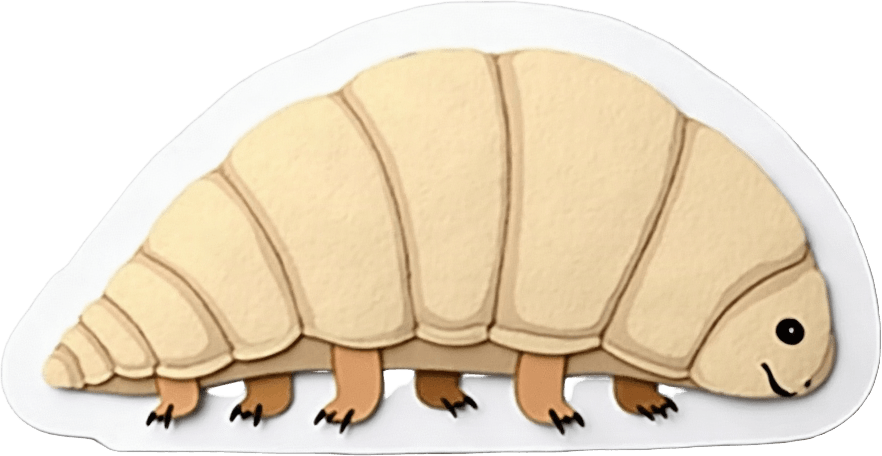
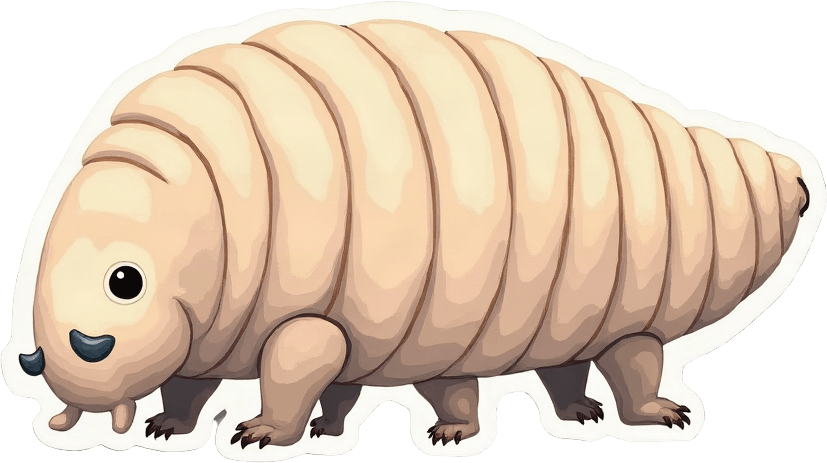
Fix the big-number counter finishing off screen and overflowing; redraw two pilot pictures
- The counter now runs 0.8 s and starts at least 2 s before the cut, so
  the final value and unit are always on screen (QA read '0.3 million').
- Long numbers shrink to fit the card (1,000,000,000 overflowed).
- The flattened spinal disc is the plump disc squashed in code, so the
  before/after pair matches exactly; tardigrade redrawn.

Claude-Session: https://claude.ai/code/session_015SvKS5UWRraLYtJ9Qx1qJ9

diff --git a/src/video/scenes/templates.tsx b/src/video/scenes/templates.tsx
@@ -233,6 +233,12 @@ const Title: React.FC<SceneProps> = ({ dur, props = {} }) => {
   );
 };
 
+/** How long the big-number counter runs. The spec builder starts it early enough to finish on screen. */
+export const COUNT_S = 0.8;
+
+/** Font size that keeps a number on one line inside the card (13 characters fit at 96 px). */
+export const numberSize = (text: string) => (text.length <= 5 ? 160 : text.length <= 9 ? 130 : text.length <= 13 ? 96 : 76);
+
 /** big-number: a counter that runs up to a value on a cue word, with a unit card and an optional icon. */
 const BigNumber: React.FC<SceneProps> = ({ dur, props = {} }) => {
   const t = useTheme();
@@ -243,7 +249,8 @@ const BigNumber: React.FC<SceneProps> = ({ dur, props = {} }) => {
   const value = num(props.value);
   const from = num(props.from);
   const decimals = num(props.decimals);
-  const p = interpolate(held, [start, start + Math.round(fps * 1.1)], [0, 1], {
+  const countFrames = Math.round(fps * COUNT_S);
+  const p = interpolate(held, [start, start + countFrames], [0, 1], {
     extrapolateLeft: "clamp",
     extrapolateRight: "clamp",
     easing: Easing.out(Easing.cubic),
@@ -259,12 +266,12 @@ const BigNumber: React.FC<SceneProps> = ({ dur, props = {} }) => {
         </Piece>
       )}
       <Piece seed="num-value" x={540} y={icon ? 880 : 720} at={Math.max(0, start - 4)}>
-        <Card size={text.length > 9 ? 120 : 160} bg={t.colors.accent}>
+        <Card size={numberSize(text)} maxWidth={980} bg={t.colors.accent}>
           {text}
         </Card>
       </Piece>
       {str(props.unit) && (
-        <Piece seed="num-unit" x={540} y={icon ? 1090 : 960} at={start + Math.round(fps * 1.1)} from="up" rotate={-1}>
+        <Piece seed="num-unit" x={540} y={icon ? 1090 : 960} at={start + countFrames} from="up" rotate={-1}>
           <Card size={60}>{str(props.unit)}</Card>
         </Piece>
       )}

diff --git a/test/video.test.ts b/test/video.test.ts
@@ -155,3 +155,12 @@ describe("image generation with a check", () => {
     }
   });
 });
+
+describe("big-number template", () => {
+  it("sizes long numbers to fit the card", async () => {
+    const { numberSize } = await import("../src/video/scenes/templates");
+    expect(numberSize("38")).toBe(160);
+    expect(numberSize("1,000,000,000")).toBe(96);
+    expect(numberSize("1,000,000,000,000")).toBe(76);
+  });
+});

diff --git a/src/pipeline/spec.ts b/src/pipeline/spec.ts
@@ -92,7 +92,8 @@ export function buildSpec(opts: {
           prefix: s.number?.prefix ?? "",
           suffix: s.number?.suffix ?? "",
           unit: s.text ?? "",
-          countAtMs: c1,
+          // The counter (0.8 s) and its unit card must land with time to read them before the cut.
+          countAtMs: Math.min(c1, Math.max(0, dur - 2000)),
         };
         break;
       case "compare":
